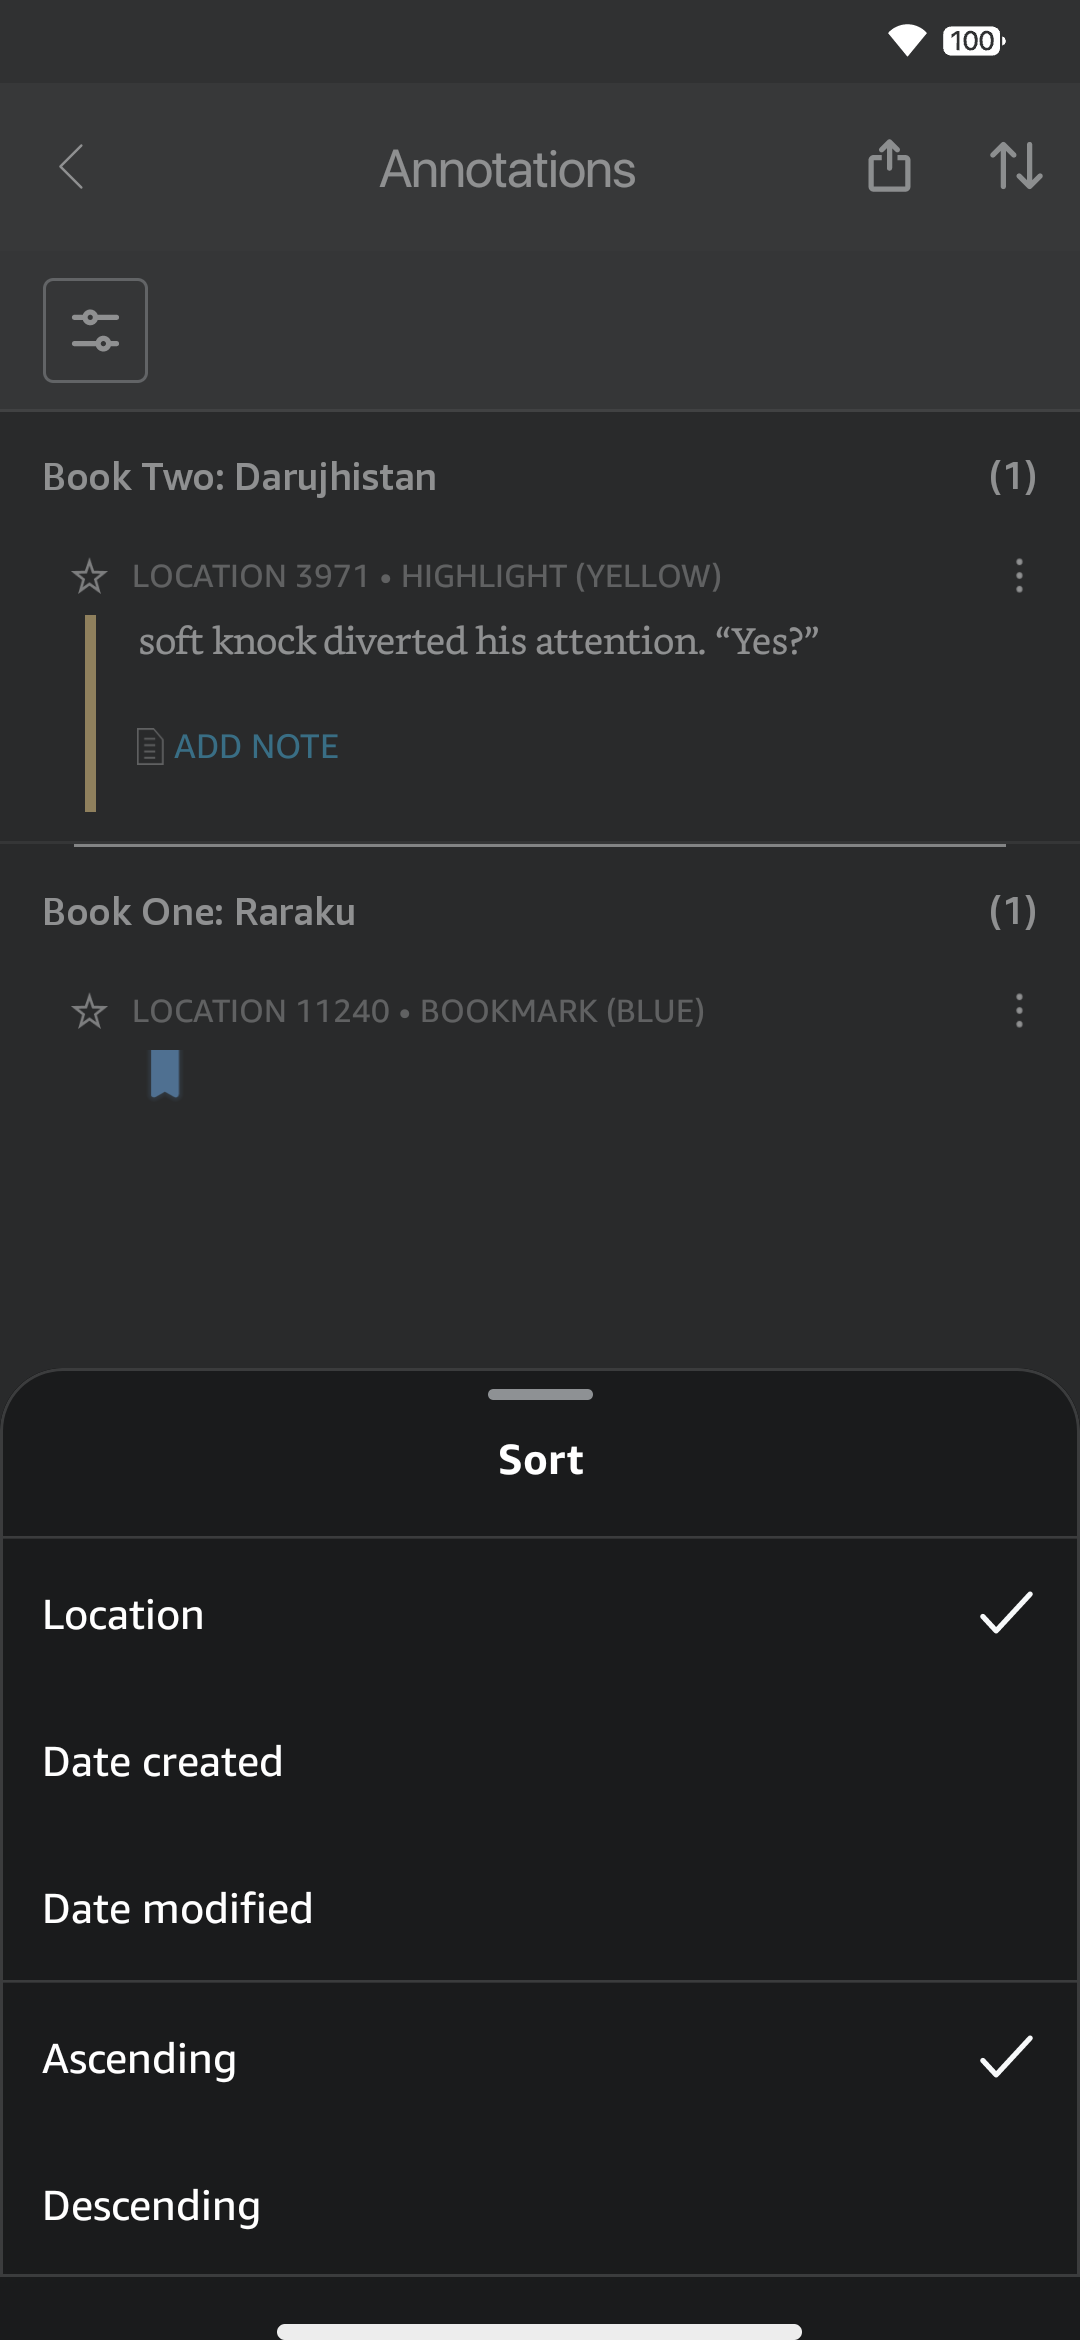
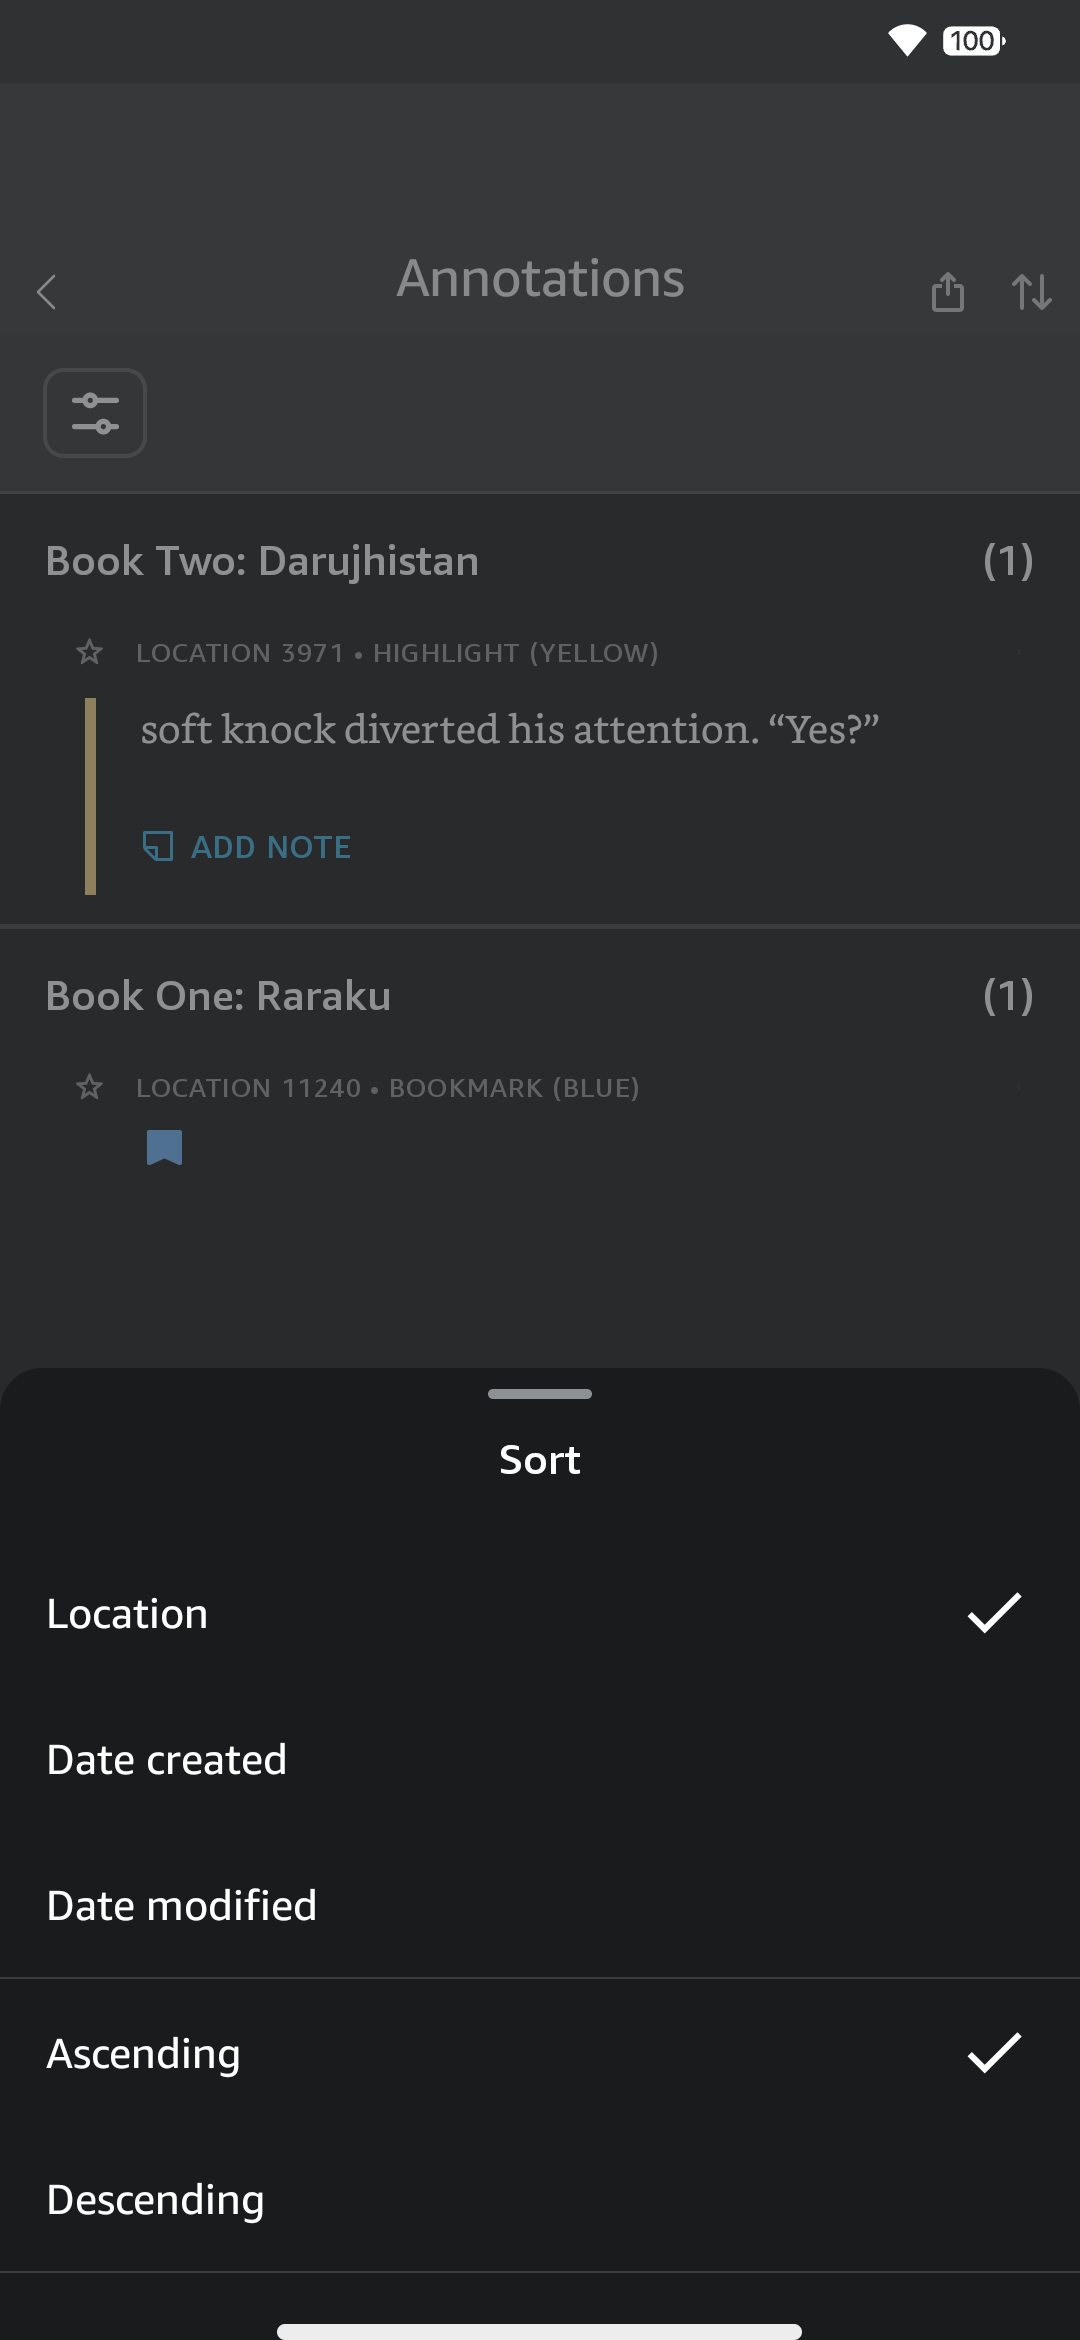
feat(real-ui): calibrate D15 Annotations sort sheet with Kindle typography and layout

diff --git a/app/src/main/java/app/opusreader/ui/screens/AnnotationsSortSheet.kt b/app/src/main/java/app/opusreader/ui/screens/AnnotationsSortSheet.kt
@@ -1,17 +1,19 @@
 package app.opusreader.ui.screens
 
-import androidx.compose.foundation.Image
+import androidx.compose.foundation.background
 import androidx.compose.foundation.clickable
 import androidx.compose.foundation.layout.Box
+import androidx.compose.foundation.layout.Column
 import androidx.compose.foundation.layout.Row
-import androidx.compose.foundation.layout.fillMaxSize
+import androidx.compose.foundation.layout.Spacer
 import androidx.compose.foundation.layout.fillMaxWidth
 import androidx.compose.foundation.layout.height
 import androidx.compose.foundation.layout.padding
 import androidx.compose.foundation.layout.size
+import androidx.compose.foundation.shape.CircleShape
+import androidx.compose.foundation.shape.RoundedCornerShape
 import androidx.compose.material.icons.Icons
 import androidx.compose.material.icons.filled.Check
-import androidx.compose.material3.HorizontalDivider
 import androidx.compose.material3.Icon
 import androidx.compose.material3.Text
 import androidx.compose.runtime.Composable
@@ -21,19 +23,16 @@ import androidx.compose.runtime.remember
 import androidx.compose.runtime.setValue
 import androidx.compose.ui.Alignment
 import androidx.compose.ui.Modifier
-import androidx.compose.ui.layout.ContentScale
-import androidx.compose.ui.res.painterResource
+import androidx.compose.ui.draw.clip
+import androidx.compose.ui.graphics.Color
+import androidx.compose.ui.text.PlatformTextStyle
+import androidx.compose.ui.text.TextStyle
 import androidx.compose.ui.text.font.FontWeight
 import androidx.compose.ui.tooling.preview.Preview
 import androidx.compose.ui.unit.dp
 import androidx.compose.ui.unit.sp
-import app.opusreader.R
-import app.opusreader.ui.components.OpusBottomSheetContainer
-import app.opusreader.ui.theme.OpusDivider
+import app.opusreader.ui.theme.AmazonEmberFontFamily
 import app.opusreader.ui.theme.OpusReaderTheme
-import app.opusreader.ui.theme.OpusSpacing
-import app.opusreader.ui.theme.OpusTextPrimary
-import app.opusreader.ui.theme.OpusTextSecondary
 import app.opusreader.ui.theme.refPx
 
 enum class AnnotationSortField(val displayName: String) {
@@ -58,90 +57,125 @@ fun AnnotationsSortSheet(
     var selectedField by remember { mutableStateOf(initialField) }
     var selectedDirection by remember { mutableStateOf(initialDirection) }
 
-    OpusBottomSheetContainer(
-        title = "Sort",
-        doneButtonText = "DONE",
-        onDoneClick = { onApply(selectedField, selectedDirection) },
-        onCloseClick = onDismiss,
+    Column(
         modifier = modifier
+            .fillMaxWidth()
+            .height(972.refPx)
+            .clip(RoundedCornerShape(topStart = 16.dp, topEnd = 16.dp))
+            .background(Color(0xFF1A1B1C))
     ) {
-        SectionTitle("Sort by")
+        // Drag handle (y=1389..1399, top padding = 21px from top of sheet)
+        Box(
+            modifier = Modifier
+                .align(Alignment.CenterHorizontally)
+                .padding(top = (21 / 2.625).dp)
+                .size(width = (104 / 2.625).dp, height = (10 / 2.625).dp)
+                .clip(CircleShape)
+                .background(Color(0xFF8E9194))
+        )
 
+        // Title "Sort" (y=1445..1474, top padding = 34px from handle)
+        Text(
+            text = "Sort",
+            color = Color.White,
+            fontFamily = AmazonEmberFontFamily,
+            fontSize = 16.sp,
+            fontWeight = FontWeight.Bold,
+            style = TextStyle(platformStyle = PlatformTextStyle(includeFontPadding = false)),
+            modifier = Modifier
+                .align(Alignment.CenterHorizontally)
+                .padding(top = (34 / 2.625).dp)
+        )
+
+        Spacer(modifier = Modifier.height((56 / 2.625).dp))
+
+        // Sort Field Rows (Location, Date created, Date modified)
         AnnotationSortField.entries.forEach { field ->
             val isSelected = selectedField == field
             Row(
                 modifier = Modifier
                     .fillMaxWidth()
-                    .clickable { selectedField = field }
-                    .padding(horizontal = OpusSpacing.standard, vertical = 12.dp),
+                    .height((146 / 2.625).dp)
+                    .clickable {
+                        selectedField = field
+                        onApply(selectedField, selectedDirection)
+                    }
+                    .padding(start = (46 / 2.625).dp, end = (49 / 2.625).dp),
                 verticalAlignment = Alignment.CenterVertically
             ) {
                 Text(
                     text = field.displayName,
-                    color = OpusTextPrimary,
-                    fontSize = 15.sp,
+                    color = Color.White,
+                    fontFamily = AmazonEmberFontFamily,
+                    fontSize = 16.sp,
+                    fontWeight = FontWeight.Normal,
+                    style = TextStyle(platformStyle = PlatformTextStyle(includeFontPadding = false)),
                     modifier = Modifier.weight(1f)
                 )
                 if (isSelected) {
                     Icon(
                         imageVector = Icons.Default.Check,
                         contentDescription = "Selected",
-                        tint = OpusTextPrimary,
-                        modifier = Modifier.size(20.dp)
+                        tint = Color.White,
+                        modifier = Modifier.size(28.dp)
                     )
                 }
             }
         }
 
-        HorizontalDivider(color = OpusDivider, thickness = 1.dp)
+        // Divider 1 (y=1980..1982)
+        Box(
+            modifier = Modifier
+                .fillMaxWidth()
+                .height((2 / 2.625).dp)
+                .background(Color(0xFF3B3C3D))
+        )
 
-        SectionTitle("Order")
-
+        // Sort Direction Rows (Ascending, Descending)
         SortDirection.entries.forEach { dir ->
             val isSelected = selectedDirection == dir
             Row(
                 modifier = Modifier
                     .fillMaxWidth()
-                    .clickable { selectedDirection = dir }
-                    .padding(horizontal = OpusSpacing.standard, vertical = 12.dp),
+                    .height((146 / 2.625).dp)
+                    .clickable {
+                        selectedDirection = dir
+                        onApply(selectedField, selectedDirection)
+                    }
+                    .padding(start = (46 / 2.625).dp, end = (49 / 2.625).dp),
                 verticalAlignment = Alignment.CenterVertically
             ) {
                 Text(
                     text = dir.displayName,
-                    color = OpusTextPrimary,
-                    fontSize = 15.sp,
+                    color = Color.White,
+                    fontFamily = AmazonEmberFontFamily,
+                    fontSize = 16.sp,
+                    fontWeight = FontWeight.Normal,
+                    style = TextStyle(platformStyle = PlatformTextStyle(includeFontPadding = false)),
                     modifier = Modifier.weight(1f)
                 )
                 if (isSelected) {
                     Icon(
                         imageVector = Icons.Default.Check,
                         contentDescription = "Selected",
-                        tint = OpusTextPrimary,
-                        modifier = Modifier.size(20.dp)
+                        tint = Color.White,
+                        modifier = Modifier.size(28.dp)
                     )
                 }
             }
         }
+
+        // Divider 2 (y=2275..2277)
+        Box(
+            modifier = Modifier
+                .fillMaxWidth()
+                .height((2 / 2.625).dp)
+                .background(Color(0xFF3B3C3D))
+        )
     }
 }
 
-@Composable
-private fun SectionTitle(title: String) {
-    Text(
-        text = title,
-        color = OpusTextSecondary,
-        fontSize = 13.sp,
-        fontWeight = FontWeight.SemiBold,
-        modifier = Modifier.padding(
-            start = OpusSpacing.standard,
-            end = OpusSpacing.standard,
-            top = OpusSpacing.medium,
-            bottom = OpusSpacing.small
-        )
-    )
-}
-
-@Preview(name = "15 Annotations Sort Preview", showBackground = true, backgroundColor = 0xFF232323)
+@Preview(name = "15 Annotations Sort Sheet Preview", showBackground = true, backgroundColor = 0xFF000000)
 @Composable
 fun AnnotationsSortSheetPreview() {
     OpusReaderTheme {

diff --git a/app/src/main/java/app/opusreader/navigation/OpusNavHost.kt b/app/src/main/java/app/opusreader/navigation/OpusNavHost.kt
@@ -410,16 +410,37 @@ fun OpusNavHost(
 
                 // 15 Annotations Sort Sheet
                 composable(NavRoutes.ANNOTATIONS_SORT) {
-                    AnnotationsSortSheet(
-                        initialField = annotationSortField,
-                        initialDirection = annotationSortDirection,
-                        onDismiss = { navController.popBackStack() },
-                        onApply = { field, direction ->
-                            annotationSortField = field
-                            annotationSortDirection = direction
-                            navController.popBackStack()
-                        }
-                    )
+                    Box(modifier = Modifier.fillMaxSize()) {
+                        AnnotationsScreen(
+                            engine = readerEngine,
+                            filterTypes = annotationFilterTypes,
+                            filterColors = annotationFilterColors,
+                            sortField = annotationSortField,
+                            sortDirection = annotationSortDirection,
+                            onBackClick = { navController.popBackStack() },
+                            onFilterClick = {},
+                            onSortClick = {},
+                            onExportClick = {},
+                            onItemClick = {}
+                        )
+                        Box(
+                            modifier = Modifier
+                                .fillMaxSize()
+                                .background(Color(0xFF444648).copy(alpha = 0.60f))
+                                .clickable { navController.popBackStack() }
+                        )
+                        AnnotationsSortSheet(
+                            initialField = annotationSortField,
+                            initialDirection = annotationSortDirection,
+                            onDismiss = { navController.popBackStack() },
+                            onApply = { field, direction ->
+                                annotationSortField = field
+                                annotationSortDirection = direction
+                                navController.popBackStack()
+                            },
+                            modifier = Modifier.align(Alignment.BottomCenter)
+                        )
+                    }
                 }
 
                 // 16 Annotations Share Sheet

diff --git a/docs/FIDELITY_REPORT.md b/docs/FIDELITY_REPORT.md
@@ -8,7 +8,7 @@ Thresholds per screen (outside masks):
 
 | ID | Screen Name | Reference File | Diff % | Worst Offset (px) | Liveness | Scroll | Status | Notes |
 |---|---|---|---|---|---|---|---|---|
-| D14 | Annotations filter sheet | `docs/reference/14_annotations-filter-sheet.png` | 11.05% | 2 px | PASS | N/A | FAIL | bad: 11.05%, dy: 2px |
+| D15 | Annotations sort sheet | `docs/reference/15_annotations-sort-sheet.png` | 9.11% | 0 px | PASS | N/A | FAIL | bad: 9.11%, dy: 0px |
 
 ## Summary
 - **Total canonical screens evaluated**: 1
